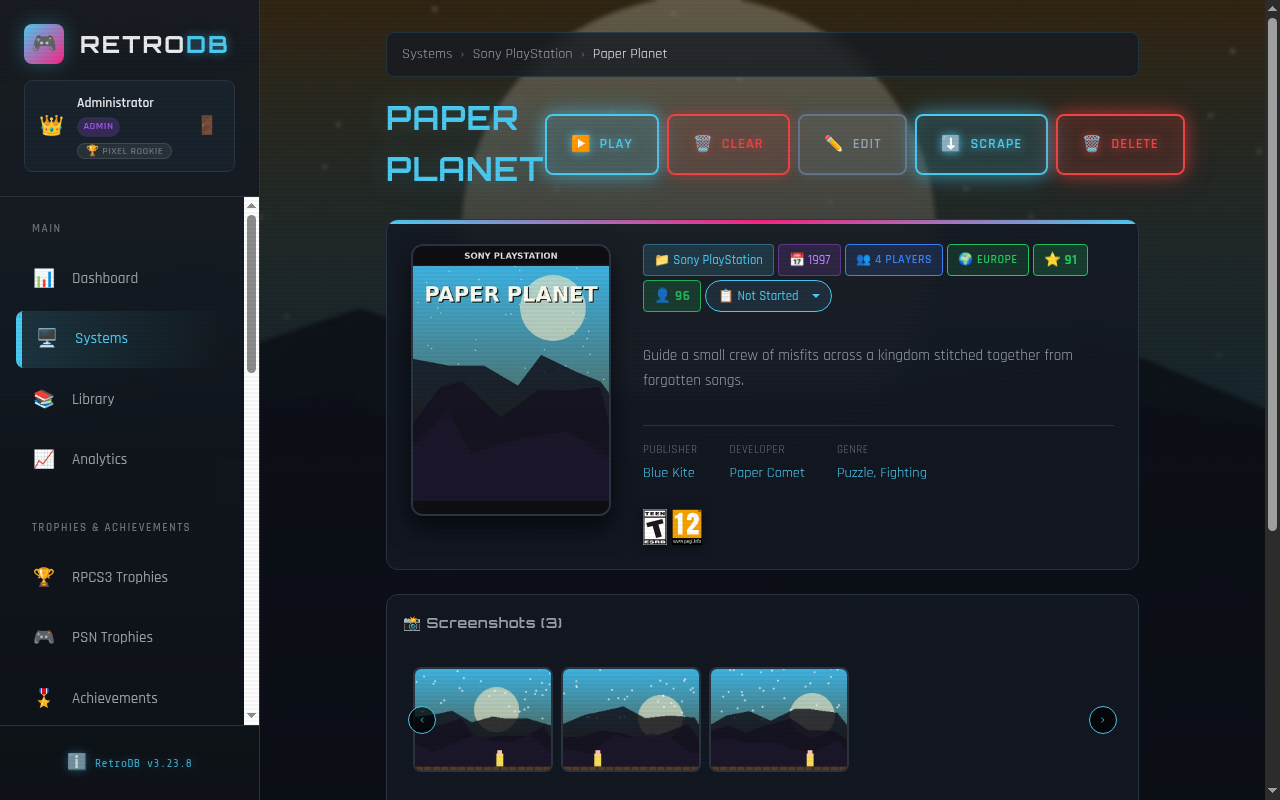
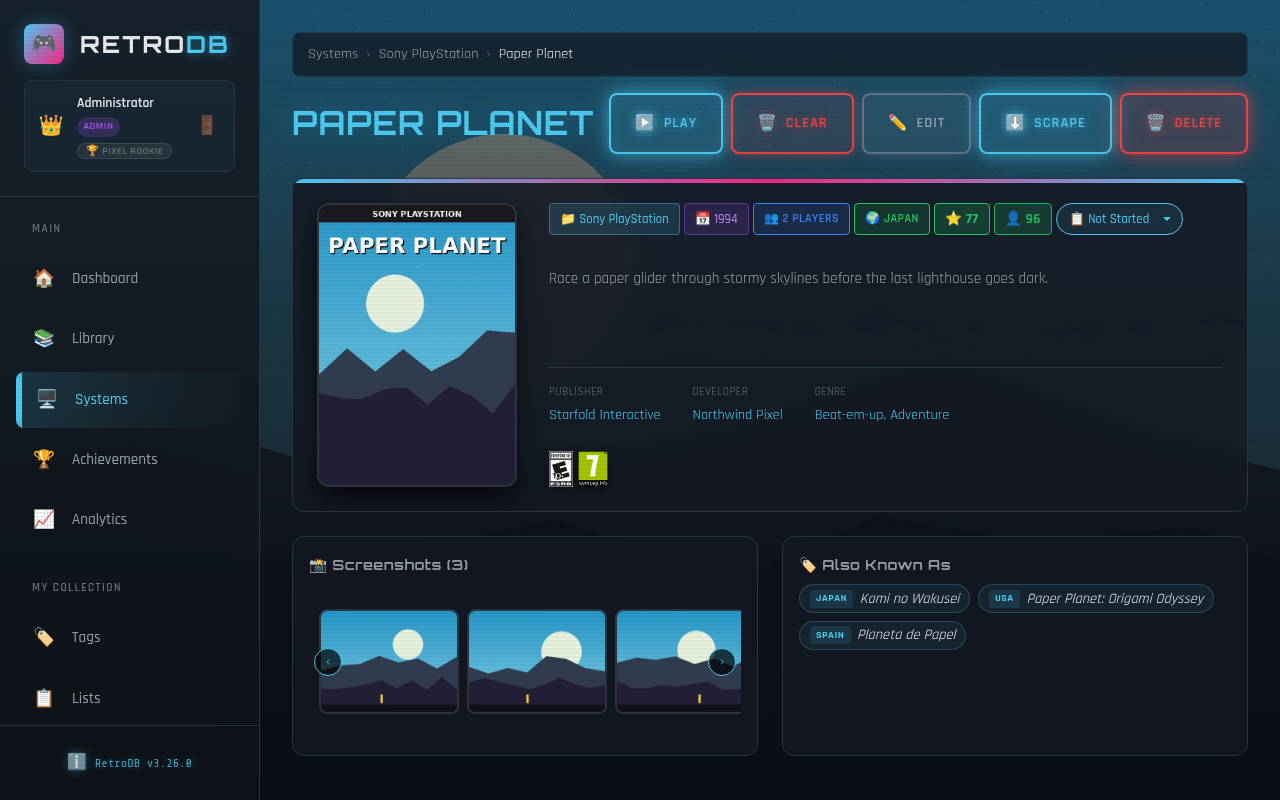
content: fresh RetroDB screenshots from v3.26.0
The RetroDB session's new set (message 740): library, game page, systems
and dashboard, 1280x800, replacing the four files of the same names. Each
alt text was rewritten from the image itself (scores 77 and 96, Japan,
1994, 6 consoles, 40 games). The shots README no longer calls the gallery
a thumbnail grid: the first shot shows large since 08de756.

write-doc: shots README sentence and CHANGELOG entry checked against the
gallery code (renderScreenshots) and the images; no link, path or count added.
CLAUDE.md rule 14: src/assets/img/shots/README.md: checked, no line changes
what a conformer builds, checks or ships (it already required alt text and
a shot list), no gate.

diff --git a/src/assets/img/shots/README.md b/src/assets/img/shots/README.md
@@ -13,8 +13,9 @@ project's `screenshots` array. Each entry needs both fields:
 - `src` is relative to `src/assets/img/` (so prefix the filename with `shots/`).
 - `alt` is **required** — it's the text screen readers announce, and the site
   owner is partially sighted. Describe what the screenshot shows, not "screenshot".
-- Suggested width ~1280px; PNG or JPG. They render as a thumbnail grid near the
-  top of the project page — any number of shots (2 or 20) lays out cleanly.
+- Suggested width ~1280px; PNG or JPG. On the project page the first shot is shown
+  large and the rest as a row of thumbnails under it, each in its own shape, so list
+  the shot that best shows the app first.
   Clicking one opens a full-screen viewer with ‹ / › arrows to move between shots
   and a ✕ (or click-outside / browser Back) to close. It's pure CSS — no
   JavaScript ships.

diff --git a/CHANGELOG.md b/CHANGELOG.md
@@ -75,6 +75,8 @@ so dated sections stand in for versions. Planned work lives in
 
 ### Changed
 
+- **RetroDB's screenshots are fresh, from version 3.26.0, each with a new description of what it shows**
+
 - **Vestige's Linux download button now gives the AppImage, which runs with a double-click, instead of the archive**
 
 - **The private stats page lists "Google Analytics could not be read" under Needs attention, the tab that opens first**
